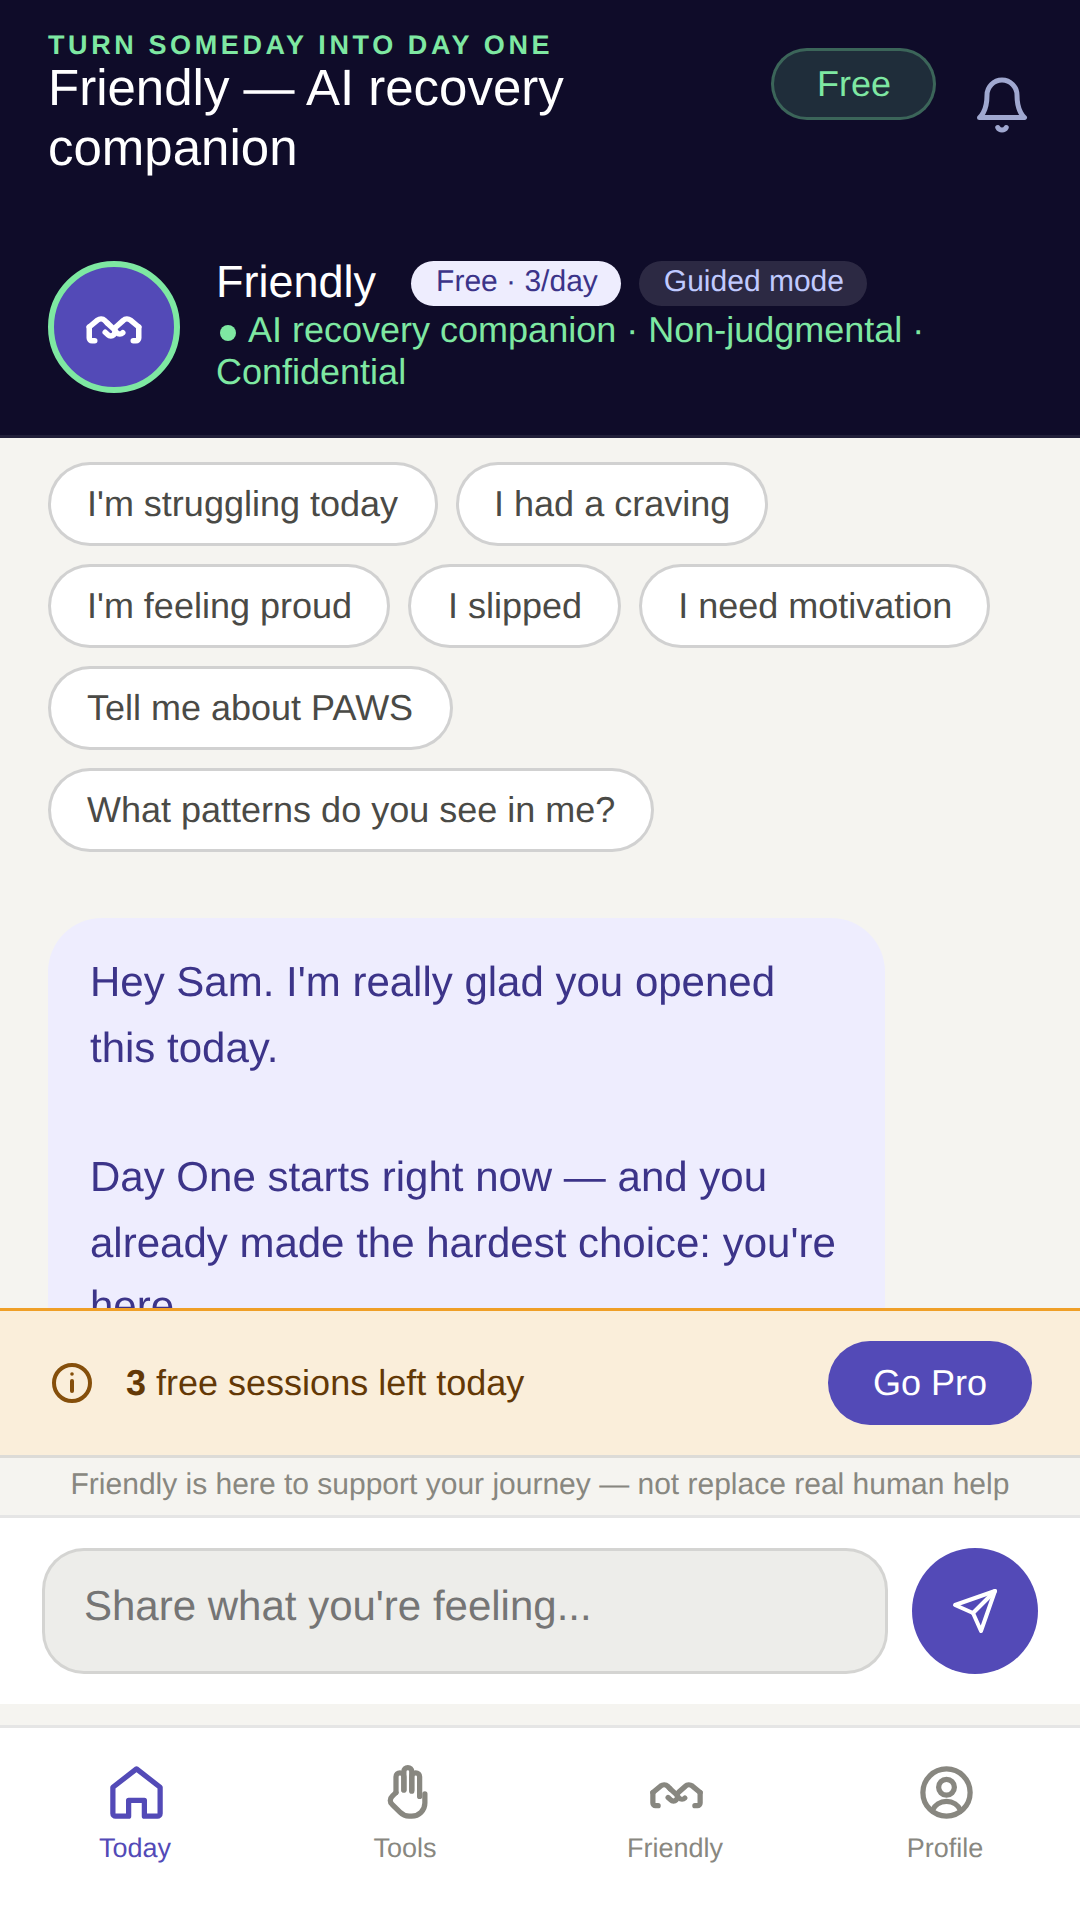
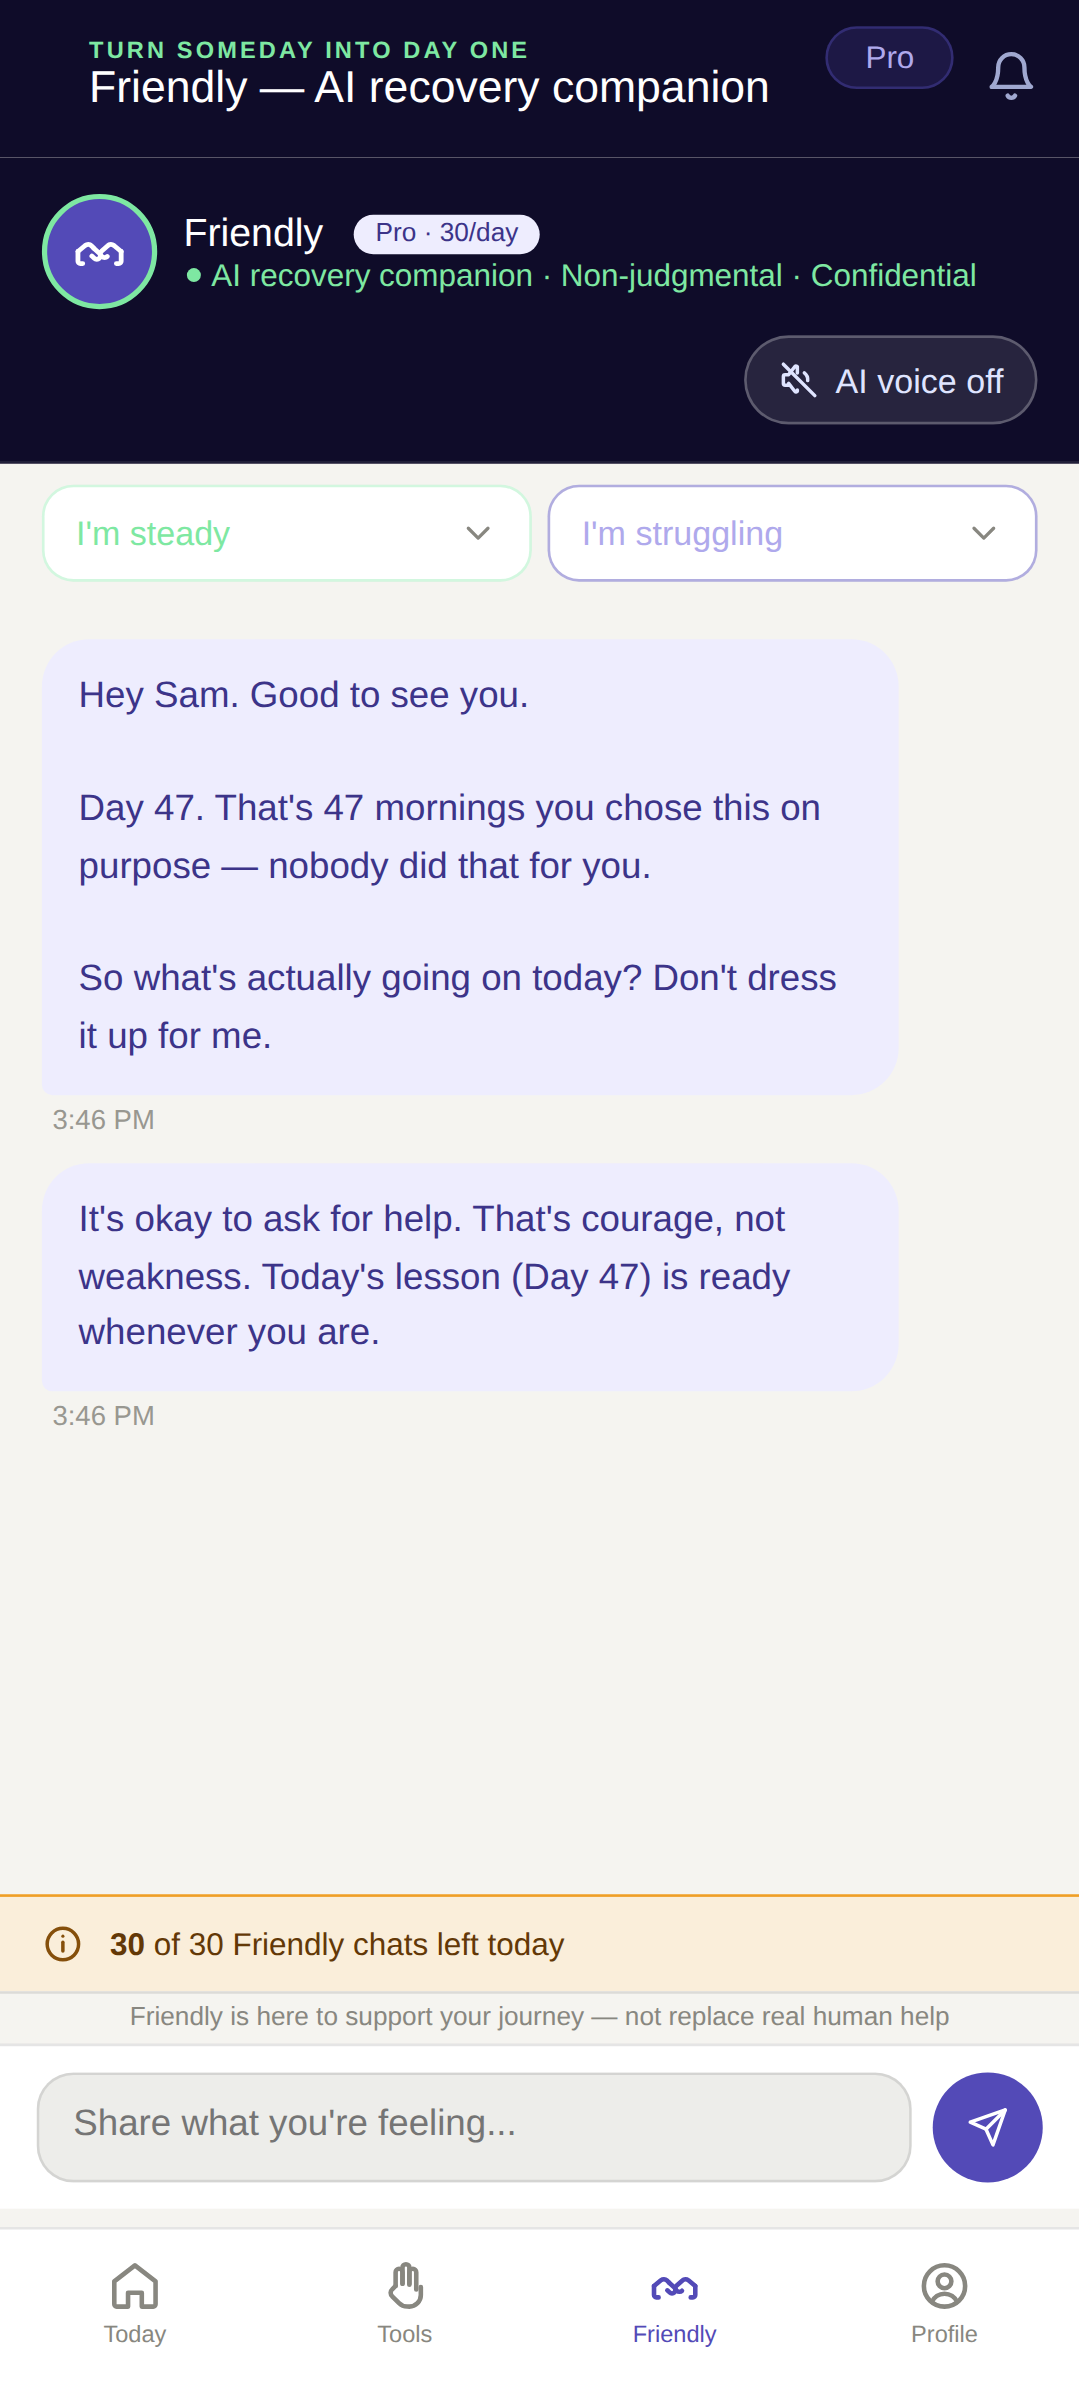
Re-capture the Friendly screenshot from a real Pro session
The 9 Aug source still showed "Free - 3/day" and "3 free sessions left today",
untrue since v8.12. The new one reads Pro - 30/day and 30 of 30 chats left.

Pulling Friendly out of the store set was the wrong fix - it is a real feature
and the main reason anybody buys Pro. The caption now says "in Pro" so nobody
downloads expecting it free.

diff --git a/TurnSomeDayIntoOneday/store-listing/make-captioned-screenshots.py b/TurnSomeDayIntoOneday/store-listing/make-captioned-screenshots.py
@@ -46,12 +46,12 @@ PANELS = [
     # Pro. The problem was never the screenshot, it was a caption that read as
     # though Friendly came with the free app. Say "in Pro" on the panel and it
     # both tells the truth and sells the thing. Play allows 8 panels; this is 7.
-    # ⚠ BLOCKED - do not upload the output of this panel yet. The source
-    # screenshots/05-chat.png is from 9 Aug and still shows "Free · 3/day" and
-    # "3 free sessions left today" on screen. Friendly has had ZERO free chats
-    # since v8.12, so the image itself is untrue, not just its caption. It needs
-    # re-capturing from a Pro session before this line is enabled.
-    # ("05-chat.png",   "Someone to talk to at 3am",      "Friendly, in Pro — no judgment, any hour"),
+    # Re-captured 26 Aug from a real Pro session: the header now reads
+    # "Pro - 30/day" and the footer "30 of 30 Friendly chats left today", which
+    # is the truth since v8.12. The 9 Aug source showed "Free - 3/day", which is
+    # why this panel was pulled. Removing Friendly entirely was the wrong fix -
+    # it is the main reason anybody buys Pro. Honest caption instead.
+    ("05-chat.png",     "Someone to talk to at 3am",      "Friendly, in Pro - no judgment, any hour"),
 ]
 
 

diff --git a/TurnSomeDayIntoOneday/store-listing/00-STATUS.md b/TurnSomeDayIntoOneday/store-listing/00-STATUS.md
@@ -73,17 +73,17 @@ Also refreshed: the lesson caption now says "listen in a real voice" (six
 narrators shipped, including Jacques reading all ninety days), and the journal
 caption is now the privacy promise rather than a feature description.
 
-### 3b. ⏳ Re-capture the Friendly screenshot, then add it back
-`screenshots/05-chat.png` is from 9 Aug and shows **"Free · 3/day"** and
-**"3 free sessions left today"** on screen. Friendly has had zero free chats
-since v8.12, so the picture is untrue, not just the caption.
+### 3b. DONE - Friendly screenshot re-captured (26 Aug)
+`screenshots/05-chat.png` was from 9 Aug and showed **"Free - 3/day"** and
+**"3 free sessions left today"** - untrue since v8.12. Re-shot from a real Pro
+session: the header now reads **Pro - 30/day** and the footer **30 of 30
+Friendly chats left today**.
 
-Removing it entirely (first pass, 26 Aug) was the wrong fix — Jacques pushed
-back and he was right. Friendly is a real feature and the main reason anyone
-buys Pro; hiding it sells nothing. The fix is a fresh capture from a Pro
-session plus an honest caption that says "in Pro". The panel is written and
-commented out in `make-captioned-screenshots.py` — re-enable it once the source
-is re-shot. Play allows 8 panels and only 6 are used, so it costs nothing.
+Pulling Friendly out of the set entirely (first pass) was the wrong fix, and
+Jacques said so. It is a real feature and the main reason anybody buys Pro;
+hiding it sells nothing. The caption says **"Friendly, in Pro"** so nobody
+downloads expecting it free. Output is `screenshots-captioned/07-chat.png` -
+upload as panel 7. Play allows 8.
 
 ### 4. ⏳ Buy Pro on a real phone, from the real listing
 Never done. Closed testing is not the same billing path as a live Production
